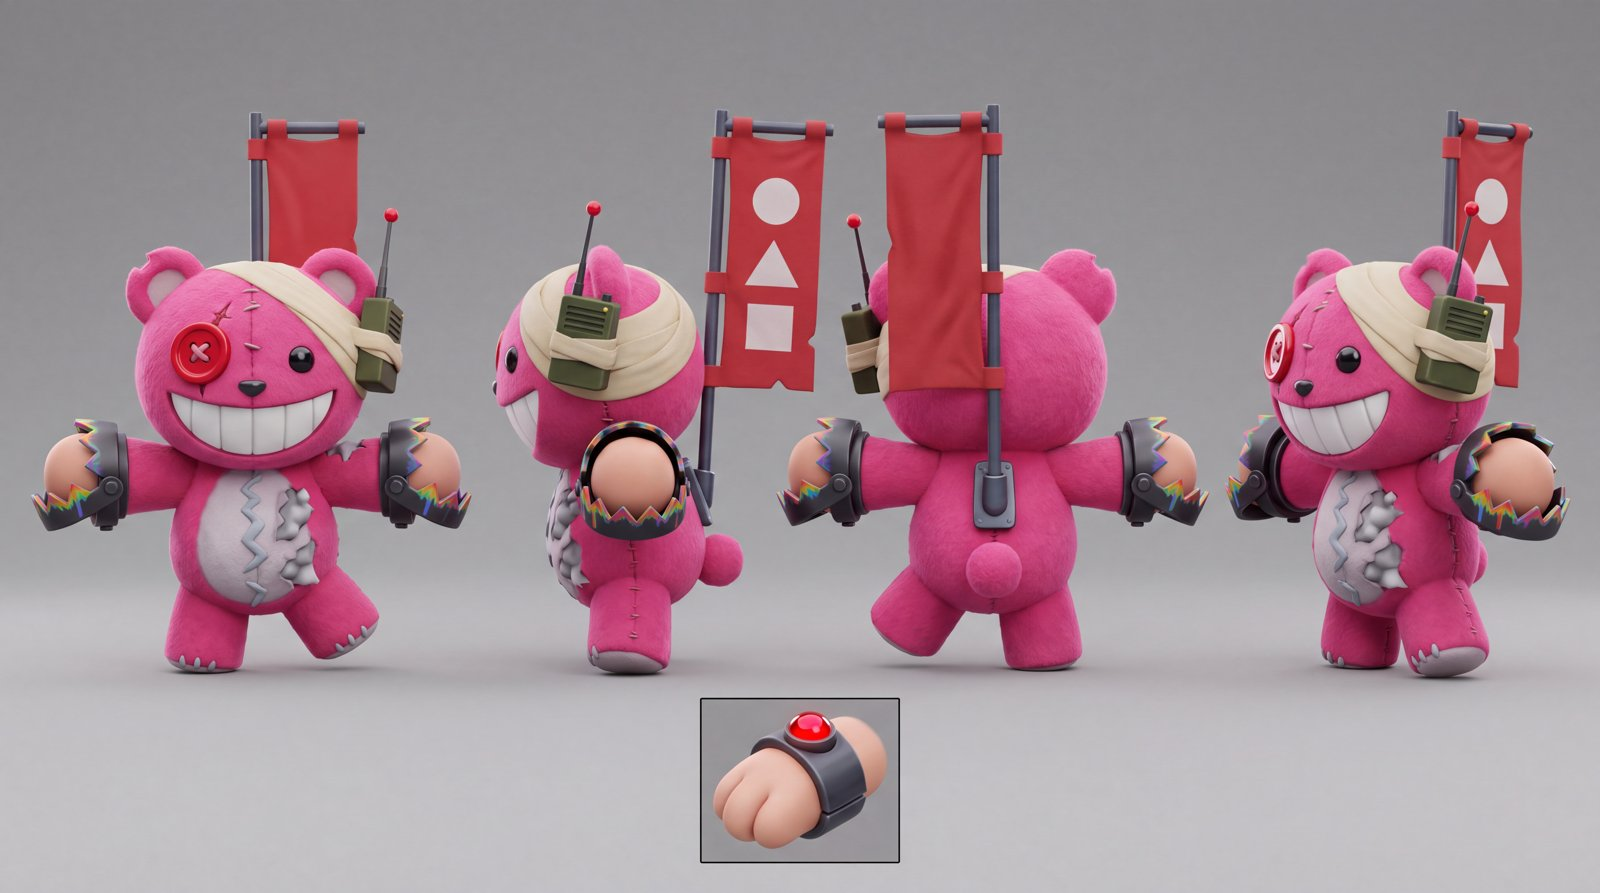
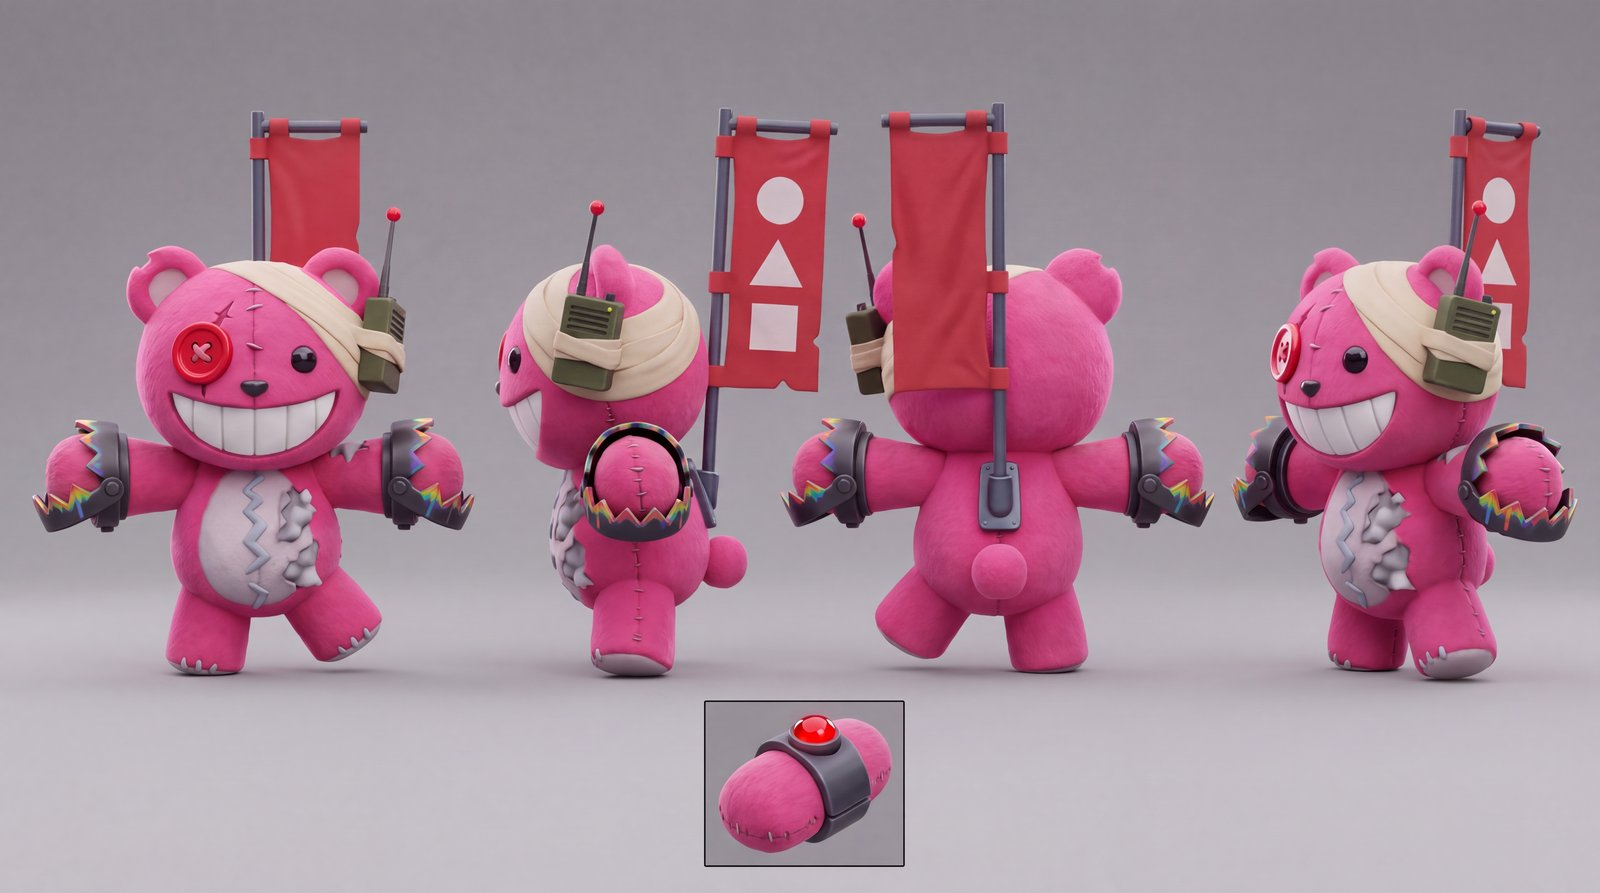
Add Sanchez's sheet and the Oct 21 sheet fixes, and switch voice picks to free previews
Sanchez's sheet is in, with a fix queued (helmet ear bumps, an armoured
shoulder, a dark grey glove). The edits for B-1000, the Huggable, Graham
and Tillman only partly landed:
- Graham was mirrored locally, which fixes his sash.
- B-1000's wrong duplicate back view was blanked locally.
- The remaining fixes are queued in priority order for the next daily
  reset, with the Episode 1 cast first.

Voice picks now use the free preset previews instead of the 12-line paid
audition.

Claude-Session: https://claude.ai/code/session_01P8G1q2LqE1hzznh79F6qfK

diff --git a/bbg-news-repo/characters/sheets/SHEETS.md b/bbg-news-repo/characters/sheets/SHEETS.md
@@ -8,21 +8,22 @@ These are the Element sheets: one 4K model sheet per character, in the feature-f
   - **Pass:** ready to use.
   - **Minor:** a small detail is missing; usable.
   - **Fix:** needs a targeted edit pass first. The edit uses the sheet itself as the reference, so everything that is right stays.
-- **Mirrored:** the model put every left/right detail on the wrong side, so the whole sheet was flipped horizontally (no credits). Upload the mirrored file as the Element; do not use the raw job output.
+- **Mirrored:** the model put every left/right detail on the wrong side, so the whole sheet was flipped horizontally (no credits). Upload the mirrored file as the Element; do not use the raw job output. The mirrored and trimmed files are already uploaded to Higgsfield under the upload IDs in the table.
+- **Edits:** a fix is an edit of the sheet, so it gets a new job ID; the table lists the current best job for each character.
 
 | Character | Element | Job ID | Generated | QA |
 |---|---|---|---|---|
 | Oliver | `oliver-soldier` | 909ea0bd-843e-4324-ae88-193c2eeb84cb | 2026-10-20 | Pass |
 | Riggs | `riggs-heavy` | 769625a1-c662-4d45-9974-728a213bf4e6 | 2026-10-19 | Pass |
-| Tillman | `tillman-demolition` | 09ba5b80-ee7d-4546-b66d-b58b81e62b59 | 2026-10-20 | Fix (queued) |
-| Huggable | `huggable-huggable` | 0680a612-68ce-48ff-9dc4-f9ca8398716f | 2026-10-19 | Fix (queued) |
-| Astoria | `astoria-sniper` | 64d65c16-9fee-4a3d-a172-1069e1f65869 | 2026-10-20 | Pass, mirrored |
+| Tillman | `tillman-demolition` | 17b76e5f-993a-4ecd-913d-afe450592e59 (edit of 09ba5b80) | 2026-10-21 | Minor |
+| Huggable | `huggable-huggable` | b2a3f65d-8cfd-4e1b-a9f8-cf8cabc80828 (edit of 0680a612) | 2026-10-21 | Fix (queued) |
+| Astoria | `astoria-sniper` | 64d65c16-9fee-4a3d-a172-1069e1f65869; mirrored upload fcc7f1f4-8599-4812-b509-b0782b6f53a5 | 2026-10-20 | Pass, mirrored |
 | Wil | `wil-chub-scout` | 20f40c63-0d5a-49dd-895a-e7f6fad27c50 | 2026-10-19 | Minor (fix queued) |
-| Graham | `graham-engineer` | a0a6b54f-ee85-491e-bd30-a2d2969a210a | 2026-10-19 | Fix (queued) |
-| B-1000 | `b-1000-assault-signature` | 1f7259ce-23ed-4398-9a91-cdbf429dfeed | 2026-10-19 | Minor |
+| Graham | `graham-engineer` | 55c688d8-bcd6-4a48-9060-b21ef3051a2a (edit of a0a6b54f); mirrored upload d70599fa-9bd9-48b6-b88f-a4884ecce247 | 2026-10-21 | Minor, mirrored |
+| B-1000 | `b-1000-assault-signature` | 981cb097-1709-4236-b1a3-3b6914a4df87 (edit of 1f7259ce); trimmed upload 6e0f1d8f-7123-4b28-b67d-3bf114cdf1cd | 2026-10-21 | Fix (queued) |
 | Botch | `botch-assassin` | b6d6028f-8288-42ad-9277-ca9fdcebf9f8 | 2026-10-20 | Minor |
-| Saberi | `saberi-combat-tech` | 8635a36f-35b4-472e-8f8f-945eae9905e8 | 2026-10-20 | Pass, mirrored |
-| Sanchez | `sanchez-arbiter` | | queued | |
+| Saberi | `saberi-combat-tech` | 8635a36f-35b4-472e-8f8f-945eae9905e8; mirrored upload bf7b803c-eba5-4840-99a7-7c8d93b260fc | 2026-10-20 | Pass, mirrored |
+| Sanchez | `sanchez-arbiter` | d3d31719-ebf4-459d-94db-d96e2b1316f8 | 2026-10-21 | Fix (queued) |
 
 ## QA notes
 
@@ -37,17 +38,22 @@ These are the Element sheets: one 4K model sheet per character, in the feature-f
   - harness with a yellow-green-ringed medallion;
   - forearm and shin bands;
   - round red back-shell.
-- **Tillman: fix.**
-  - Right: the cracks on the correct sides, glowing diamond eyes, black arms with red stripes, the four grinning firecracker rockets on a black back bar, and the olive drum launcher with its yellow muzzle disc.
-  - Wrong:
-    - The sash is a horizontal waist sash. The soul wants a diagonal sash, left shoulder to right hip.
-    - He has tank treads. The soul wants one wheel per leg, in a black housing with a red hub.
-    - The red rims round the eye sockets are faint.
-- **Huggable: fix.**
-  - Right: the button eye on its right, the scar, the grin, the chest seam with ticks, the torn stuffing, the rainbow-smeared jaws and the banner with circle, triangle and square.
-  - Wrong:
-    - The paws, including the one in the inset, are peach skin instead of hot-pink plush.
-    - The bandage and radio sit on its left. The soul puts them on its right, with the button eye.
+- **Tillman: minor** (after the Oct 21 edit).
+  - The edit landed:
+    - one black treaded wheel under each leg, with a red hub, in place of the tank treads;
+    - red rims round the eye sockets;
+    - a red diagonal sash from his left shoulder to his right hip, seen in the side and back views.
+  - Still wrong:
+    - the horizontal waist sash and its bow are still there;
+    - the wheels have no clear black housing.
+  - Usable. A cleanup edit is written and waits for a spare slot.
+- **Huggable: fix** (after the Oct 21 edit).
+  - The edit landed: the paws, including the inset, are hot-pink plush.
+  - Still wrong: the bandage and radio stayed on its left.
+  - Next step (queued):
+    - The sheet has been mirrored locally, which puts the bandage and radio on its right but the button eye on its left.
+    - The queued edit moves the button eye and its scar under the bandage.
+  - The preview here is the unmirrored edit.
 - **Astoria: pass, mirrored.**
   - The raw output had her pouch and the hand on her hip on her left. The mirrored file puts both on her right, as the soul says.
   - Matches the soul: cream plush, heavy-lidded teal eyes, red gloves, quilted maroon belt and red-and-white boots.
@@ -59,16 +65,26 @@ These are the Element sheets: one 4K model sheet per character, in the feature-f
     - the glowing red knee pads;
     - the rear-facing lens backpack.
   - Minor: the elbow bands sit high and have no glowing red pads. A fix is queued.
-- **Graham: fix.**
-  - Right: the hard hat, cyan goggles, brows, moustache, gloves and belt.
-  - Wrong:
-    - The sash runs left shoulder to right hip; the soul says right shoulder to left hip.
-    - The white upper-arm stripes are missing.
-    - The radio pack sits too low; its top should be level with his hat brim.
-    - The fur reads as smooth vinyl.
-- **B-1000: minor.**
-  - Matches the soul: the maroon armour, the low head with cyan eye-slits, the cyan claws on the left forearm and the white-and-orange jump-pack.
-  - Minor: the rail-gun looks held rather than built into the forearm, and the chest disc and the claw hose are not visible. Usable as it is.
+- **Graham: minor, mirrored** (after the Oct 21 edit).
+  - The edit landed:
+    - soft plush fur instead of vinyl;
+    - white upper-arm stripes.
+  - Mirrored locally, so the sash now runs from his right shoulder to his left hip, as the soul says.
+  - Still wrong:
+    - two stripes per arm instead of three;
+    - the radio pack's top sits at shoulder height, not level with the hat brim;
+    - after the mirror, the antenna rises from the pack's top right corner instead of its top left.
+  - Usable.
+- **B-1000: fix** (after the Oct 21 edit).
+  - The edit landed:
+    - the plain round chest disc;
+    - the looping white hose with cyan rings.
+  - Both the original and the edit have a second back view, upper right, with claws on both arms. It was blanked locally, which leaves four views.
+  - Still wrong:
+    - a black hand still grips the rail-gun;
+    - the claws still come out of a black fist;
+    - in the back view, a hose sits on the rail-gun arm too.
+  - The soul says neither forearm has a hand. A stronger "arm cannon" edit is queued first, because Episode 1's cold open needs it.
 - **Botch: minor.**
   - Matches the soul: plum-black plush, the big round head, grey muzzle, glowing lime eyes with no pupils, silver arm guards with red lights, the small backpack with red circle markings, and the float with lime particles.
   - Minor: the bite notch in one ear is missing.
@@ -83,9 +99,29 @@ These are the Element sheets: one 4K model sheet per character, in the feature-f
     - log mallet with a yellow collar.
   - Minor: this sheet has three views; it has no three-quarter view.
 
+- **Sanchez: fix** (new on Oct 21).
+  - Matches the soul:
+    - the mechanical arm is on his right, thicker than his left arm, with red light strips and the forearm lamp;
+    - opaque glowing red visor with no eyes, light tan face, goatee and flat mouth;
+    - grey-khaki chest plate over grey-and-white camo, olive-and-tan camo trousers and dark boots;
+    - empty hands.
+  - Wrong:
+    - furry tan ears stick up through the helmet; the soul has rounded maroon ear bumps moulded into the helmet;
+    - the camo sleeve covers the top of the arm; the soul has a rounded red-and-black armoured shoulder;
+    - the left glove is khaki; the soul says dark grey.
+  - A fix is queued with B-1000's, for Episode 1.
+
 ## Queued for the next daily reset
 
-The edit prompts are in the research scratchpad (`shorts/sheets_v2/fix_prompts.json`). Each one keeps the sheet and changes only the listed details.
+The edit prompts are in the research scratchpad (`shorts/sheets_v2/fix_prompts_v2.json`). Each one keeps the sheet and changes only the listed details. They run in this order:
 
-- Sanchez's sheet.
-- Edit-fixes for Tillman, the Huggable, Graham and Wil.
+1. B-1000: no hands; the rail-gun is fused to the forearm, and the claws come out of an end cap.
+2. Sanchez: helmet ear bumps, an armoured shoulder and a dark grey glove.
+3. Wil: elbow bands with glowing red pads.
+4. Huggable: the button eye moves under the bandage (on the mirrored sheet).
+5. The first that applies:
+   - a retry of B-1000 or Sanchez if it fails QA;
+   - otherwise the blue-team Huggable;
+   - otherwise the Tillman cleanup.
+
+Graham's remaining minors (stripe count, pack height, antenna corner) wait until the daily limit lifts.

diff --git a/bbg-news-repo/series/voice_casting.md b/bbg-news-repo/series/voice_casting.md
@@ -15,4 +15,8 @@ Bryce ruled on 2026-10-20 that voices may be original AI voices: Higgsfield pres
 - Sanchez: "Oliver, we'll getcha... home. This arm, I did not ask for. But look at it."
 - Oliver: "Sanchez! Buddy! You look great! ...Fry? ...That's their ship."
 
-**Status:** the audition batch was refused on 2026-10-20 by Higgsfield's grace-period daily generation limit, which counts audio as well as images and video. It runs as soon as there is free daily capacity.
+**Status:** the audition batch was refused on 2026-10-20 by Higgsfield's grace-period daily generation limit, which counts audio as well as images and video. Because the limit is tight, the pick is now made from the free preset previews.
+
+- On 2026-10-21 Bryce was sent three free audition reels: each character's four shortlisted preset previews, in shortlist order, with 1.5 s gaps.
+- Once he picks one voice per character, Episode 1's lines are generated directly in that voice, so the 12-line audition is skipped.
+- It only runs if two voices are too close to call.
